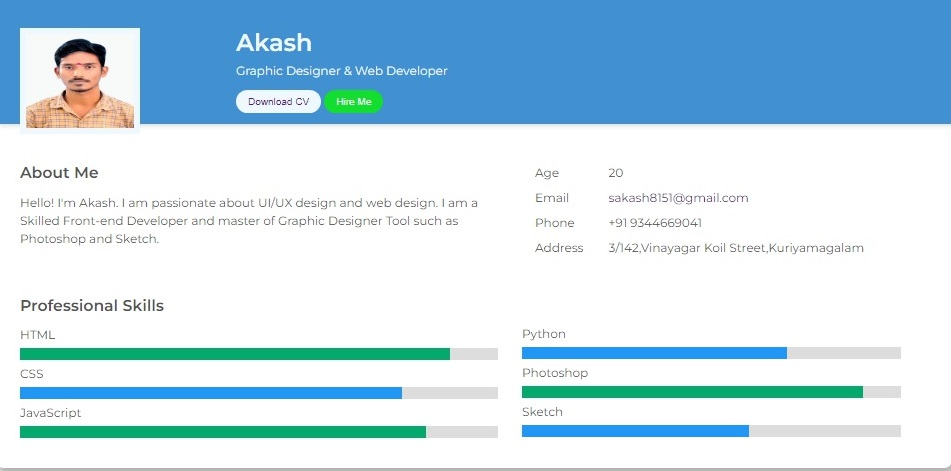
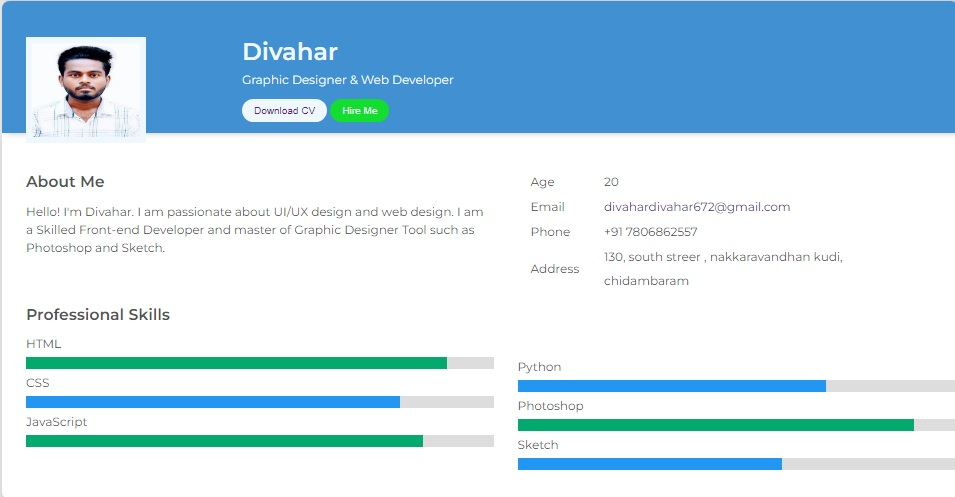
Add files via upload

diff --git a/resume.html b/resume.html
@@ -21,7 +21,7 @@
 <body>
     <!-- Title Container -->
     <div class="title-container">
-        <div class="name">Akash</div>
+        <div class="name">Divahar</div>
         <div class="social-icons">
             <a href="#"><i class="fa-brands fa-twitter"></i></a>
             <a href="#"><i class="fa-brands fa-facebook"></i></a>
@@ -36,7 +36,7 @@
         </div>
         <div class="detail-box">
             <div class="name">
-                Akash
+               Divahar
             </div>
             <div class="para">Graphic Designer & Web Developer</div>
             <div class="buttons">
@@ -51,7 +51,7 @@
             <br>
             <div class="title">About Me</div>
             <div class="paragraph">
-                Hello! I'm Akash. I am passionate about UI/UX design and web design. I am a Skilled Front-end
+                Hello! I'm Divahar. I am passionate about UI/UX design and web design. I am a Skilled Front-end
                 Developer and master of Graphic Designer Tool such as Photoshop and Sketch.
             </div>
             <div class="skill-bars">
@@ -83,15 +83,15 @@
                 </tr>
                 <tr>
                     <td>Email</td>
-                    <td><a href="" style="text-decoration: none;">sakash8151@gmail.com</a></td>
+                    <td><a href="" style="text-decoration: none;">divahardivahar672@gmail.com</a></td>
                 </tr>
                 <tr>
                     <td>Phone</td>
-                    <td>+91 9344669041</td>
+                    <td>+91 7806862557</td>
                 </tr>
                 <tr>
                     <td>Address</td>
-                    <td>68 A, Yadhavar Street,Periyakattusagai</td>
+                    <td>130, south streer , nakkaravandhan kudi, chidambaram</td>
                 </tr>
             </table>
             <div class="skill-bars">

diff --git a/contact.html b/contact.html
@@ -77,7 +77,7 @@ button[type=submit] {
                 </tr>
                 <tr>
                   
-                    <td>68 A, Yadhavar Street,Periyakattusagai</td>
+                    <td>130, south streer , nakkaravandhan kudi, chidambaram</td>
                 </tr>
                
                 <tr>
@@ -86,7 +86,7 @@ button[type=submit] {
                 </tr>
                 <tr>
                     
-                    <td><a href="" style="text-decoration: none;">sakash8151@gmail.com</a></td>
+                    <td><a href="" style="text-decoration: none;">divahardivahar672@gmail.com</a></td>
                 </tr>
                 <tr>
                     <td><b>Phone</b></td>
@@ -94,7 +94,7 @@ button[type=submit] {
                 </tr>
                 <tr>
                     
-                    <td>+91 9344669041</td>
+                    <td>+91 7806862557</td>
                 </tr>
                 
                 
@@ -104,7 +104,7 @@ button[type=submit] {
     </div>
    
 </div>
-<h2>Akash</h2><br>
+<h2>Divahar</h2><br>
 <div class="social-icons">
     <a href="#"><i class="fa-brands fa-twitter"></i></a>
     <a href="#"><i class="fa-brands fa-facebook"></i></a>
